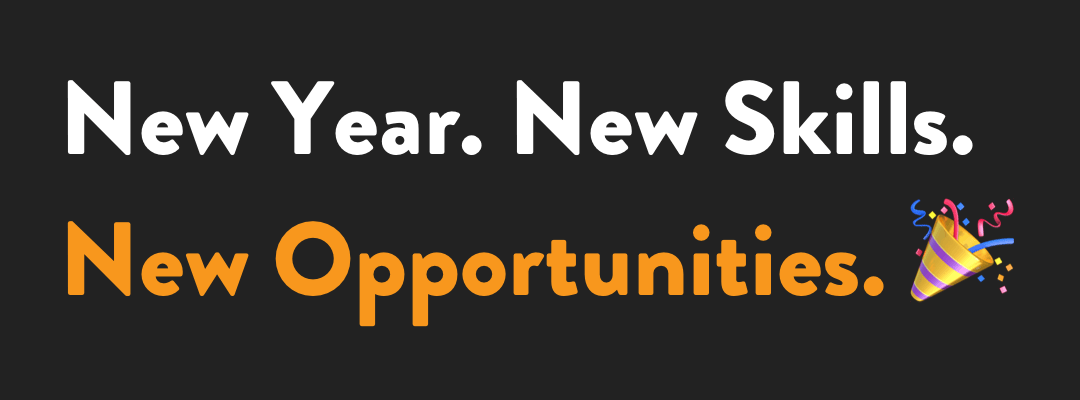
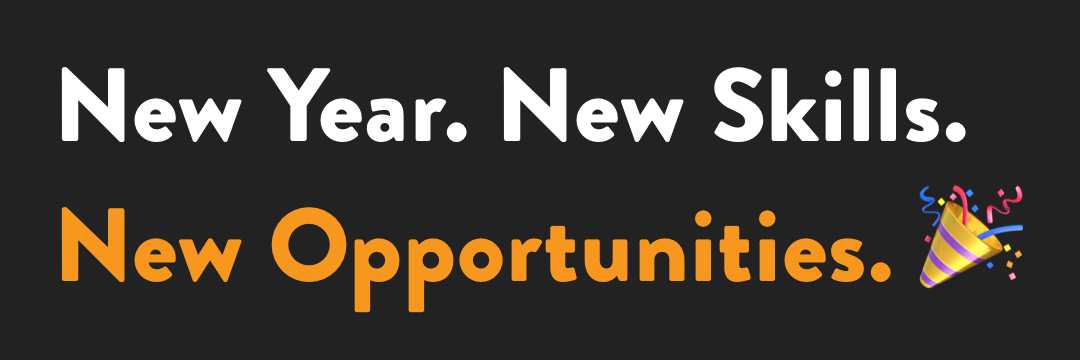
Update email
Update image and markup.

Changed region(s): [[0.0306, 0.4889, 0.9472, 0.8861], [0.0306, 0.1833, 0.9167, 0.3972]]

diff --git a/gym-emails/news-skills-2020-email/index.html b/gym-emails/news-skills-2020-email/index.html
@@ -53,7 +53,7 @@ table td {padding: 0;}
             <tr>
               <td align="left" valign="top">
                 <a href="https://thegymnasium.com" target="_blank" title="Start Learning for Free" style="display: block; text-decoration: none; outline: 0; cursor: pointer;">
-                 <img alt="New year and new skills at Gymnasium." src="img/gym-new-skills-2020-alt-2x.png" width="540" height="200" style="display: block; font-family: 'Helvetica Neue', Helvetica, Arial, 'Droid Sans', sans-serif; font-size: 24px; font-weight: bold; color: #f8971d; vertical-align: middle; width: 100%; max-width: 100%; height: auto; -ms-interpolation-mode: bicubic;">
+                 <img alt="New Year. New Skills. New Opportunities" src="img/gym-new-skills-2020-alt-2x.png" width="540" height="180" style="display: block; font-family: 'Helvetica Neue', Helvetica, Arial, 'Droid Sans', sans-serif; font-size: 24px; font-weight: bold; color: #f8971d; vertical-align: middle; width: 100%; max-width: 100%; height: auto; -ms-interpolation-mode: bicubic;">
                 </a>
               </td>
             </tr>
@@ -82,7 +82,7 @@ table td {padding: 0;}
             </tr>
           </table>
           <p style="font-family: 'Helvetica Neue', Helvetica, Arial, 'Droid Sans', sans-serif; font-weight: normal; font-size: 16px; line-height: 22px; color: #222222; padding: 0; margin: 0;">
-          No matter what your learning style is, we’ve got what you need to make your r&#233;sum&#233; pop. 🍾
+          No matter what your learning style is, we’ve got what you need to make your r&#233;sum&#233; pop. <span style="color: #fffffe;" role="img" aria-label="Bottle with popping cork.">🍾&#xFE0E;</span>
           </p>
           <div class="leading-21" style="font-family: monospace, monospace; font-size: 21px; line-height: 21px; padding: 0; margin: 0;"><br></div>
           <p style="font-family: 'Helvetica Neue', Helvetica, Arial, 'Droid Sans', sans-serif; font-weight: normal; font-size: 16px; line-height: 24px; color: #222222; padding: 0; margin: 0;">Happy learning!</p>
